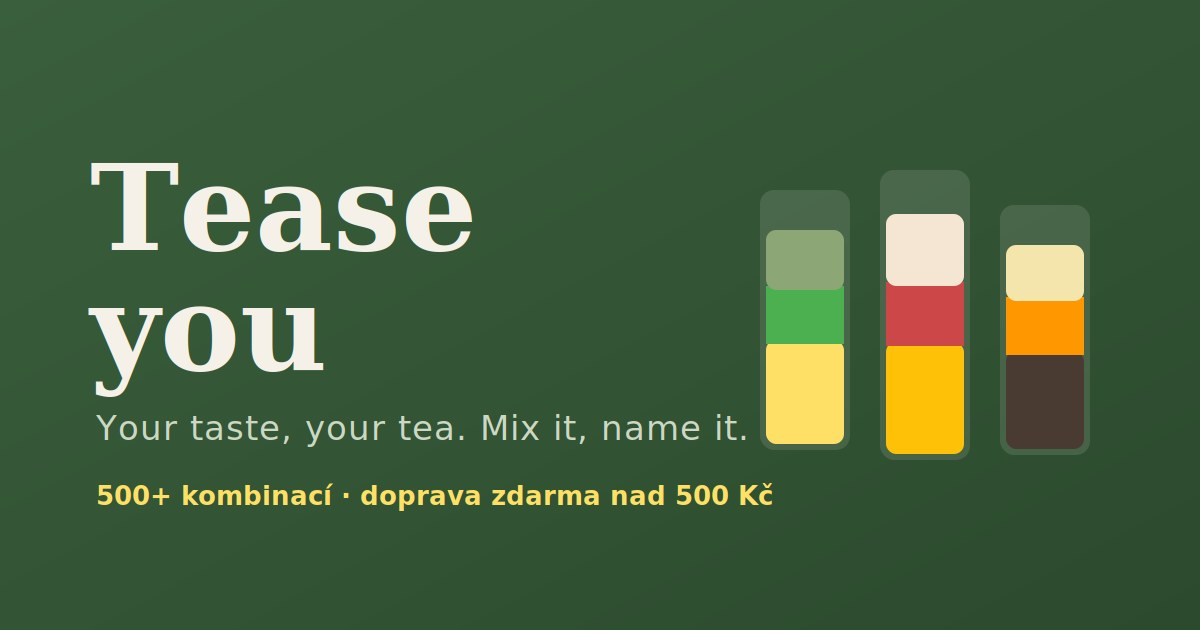
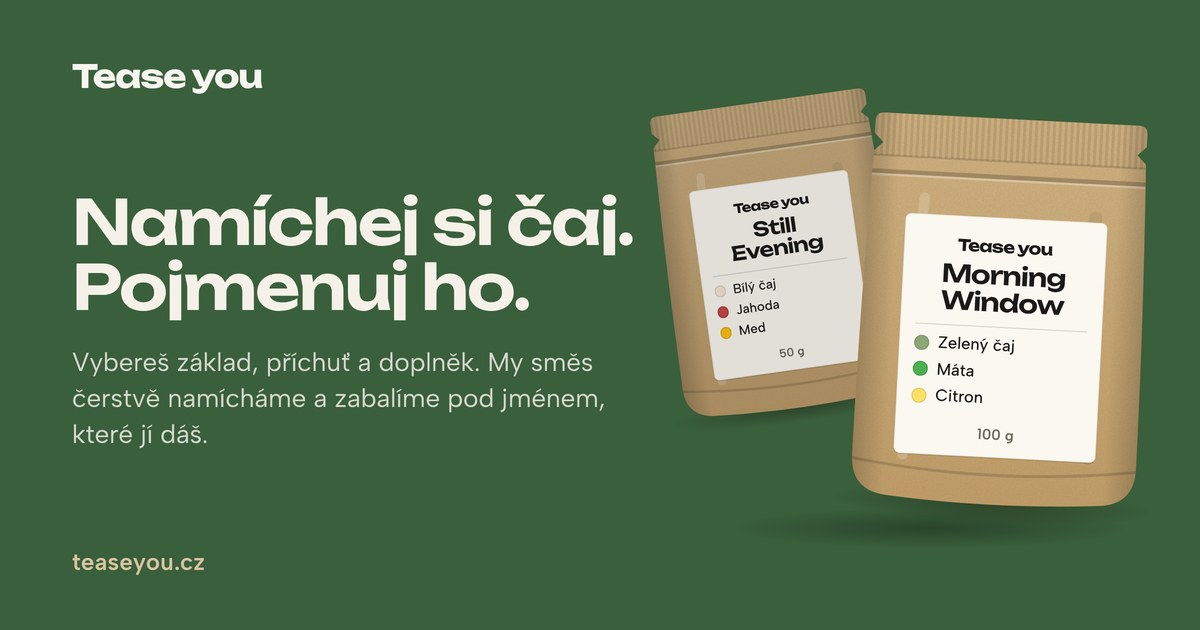
Nový náhled pro sdílení podle designu (#35)
- og-image.jpg 1200×630: zelený pás, nadpis v Unbounded, dva sáčky z webu
- starý og-image.svg s patkovým písmem pryč
- og:image:width/height/alt/type, og:site_name, og:locale, twitter:image,
  adresa s ?v=2 kvůli mezipaměti sociálních sítí

Claude-Session: https://claude.ai/code/session_015SNt3xtFVyHTVD4atTPgZv

diff --git a/index.html b/index.html
@@ -9,10 +9,17 @@
     <meta property="og:description" content="Namíchej si vlastní čaj, pojmenuj ho a my ho odešleme čerstvě zabalený. Stovky kombinací, doprava od 69 Kč.">
     <meta property="og:type" content="website">
     <meta property="og:url" content="https://teaseyou.cz">
-    <meta property="og:image" content="https://teaseyou.cz/og-image.jpg">
+    <meta property="og:image" content="https://teaseyou.cz/og-image.jpg?v=2">
+    <meta property="og:image:type" content="image/jpeg">
+    <meta property="og:image:width" content="1200">
+    <meta property="og:image:height" content="630">
+    <meta property="og:image:alt" content="Tease you: Namíchej si čaj. Pojmenuj ho. Dva papírové sáčky s vlastními jmény směsí.">
+    <meta property="og:site_name" content="Tease you">
+    <meta property="og:locale" content="cs_CZ">
     <meta name="twitter:card" content="summary_large_image">
     <meta name="twitter:title" content="Tease you — Namíchej si vlastní blend">
     <meta name="twitter:description" content="Vlastní čajová směs, pojmenovaná a odeslaná čerstvě.">
+    <meta name="twitter:image" content="https://teaseyou.cz/og-image.jpg?v=2">
     <meta name="robots" content="index, follow">
     <link rel="canonical" href="https://teaseyou.cz">
     <meta name="theme-color" content="#3d5a3e">
@@ -33,7 +40,7 @@
         "name": "Tease you",
         "description": "Namíchej si vlastní čajovou směs ze 6 základů, 9 příchutí a 9 doplňků. Pojmenuj ji, my ji čerstvě zabalíme a pošleme.",
         "url": "https://teaseyou.cz",
-        "image": "https://teaseyou.cz/og-image.jpg",
+        "image": "https://teaseyou.cz/og-image.jpg?v=2",
         "email": "hello@teaseyou.cz",
         "priceRange": "49–199 Kč",
         "currenciesAccepted": "CZK",

diff --git a/CHANGELOG.md b/CHANGELOG.md
@@ -6,6 +6,12 @@ takže se řadí podle data.
 
 ## Nezveřejněno
 
+### Změněno (náhled pro sdílení)
+- Nový `og-image.jpg` podle současného designu: zelený pás, nadpis v Unbounded
+  a dva sáčky přímo z webu. Starý `og-image.svg` (patkové písmo) pryč.
+- Doplněné `og:image:width/height/alt`, `og:site_name`, `og:locale` a `twitter:image`;
+  adresa obrázku má `?v=2`, ať sociální sítě nenechají v mezipaměti ten starý.
+
 ### Změněno (ikonky)
 - Nové ikonky podle současného designu: „T“ z písma Unbounded. E-shop má zelený
   čtverec se světlým T, administrace kraft se tmavým T, aby šly odlišit v panelech.

diff --git a/README.md b/README.md
@@ -94,7 +94,8 @@ robots.txt  sitemap.xml    Pro vyhledávače.
 humans.txt                 Pro lidi.
 .well-known/security.txt   Kam nahlásit bezpečnostní chybu.
 CNAME  .nojekyll           Konfigurace GitHub Pages.
-og-image.*  icon-*.svg     Náhledy pro sociální sítě a ikony.
+og-image.jpg favicon.*      Náhled pro sdílení (1200×630) a ikonky; admin/ má vlastní.
+                            icon-*.png, apple-touch-icon.png: ikonky pro plochu telefonu.
 ClimateCrisis-1979.woff2   Displejové písmo (SIL OFL 1.1).
 ```
 
